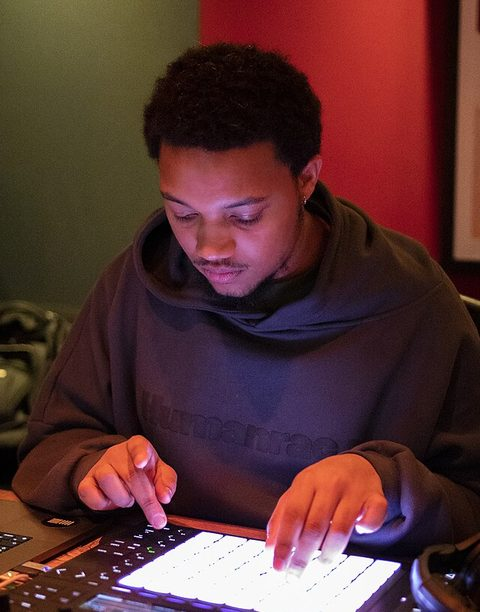
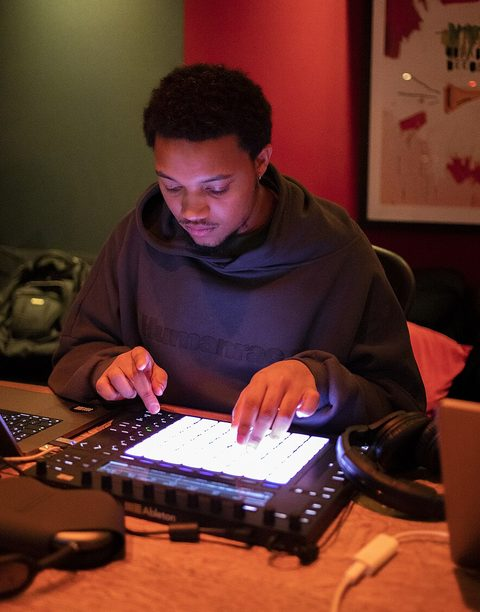
Welcome: show producer's equipment, single card label, updated copy
Producer photo zoomed out so the pad controller is visible; role and genre
merged into one slim label at the card's bottom edge. Headline, subhead and
benefits reworded (instrumentalists added; share ideas; match and create).

Claude-Session: https://claude.ai/code/session_01APVFkiYPihNdbAbeqv39XA

diff --git a/src/app/(auth)/welcome.tsx b/src/app/(auth)/welcome.tsx
@@ -12,9 +12,9 @@ const SINGER_PHOTO = require('../../../assets/welcome/singer.jpg');
 
 // The three reasons to sign up. Keep each to one short line so the page stays scannable.
 const BENEFITS = [
-  { icon: '🎯', title: 'Find the right people', body: 'Producers, vocalists, videographers and more, near you or worldwide' },
-  { icon: '🎧', title: 'Lead with your work', body: 'Your profile shows your tracks, clips and style, not just a bio' },
-  { icon: '💬', title: 'Match, then make something', body: "When you're both in, start a conversation and get to work" },
+  { icon: '🎯', title: 'Find the right people', body: 'Producers, vocalists, instrumentalists, videographers and more, near you or worldwide' },
+  { icon: '💡', title: 'Share your ideas', body: "Post snippets of your work and what you're looking for in a collab" },
+  { icon: '💬', title: 'Match and create', body: "Browse other creatives, match when it's mutual, then start working together" },
 ];
 
 export default function Welcome() {
@@ -35,9 +35,9 @@ export default function Welcome() {
             <ProfileCard photo={SINGER_PHOTO} icon="🎤" role="Singer" genre="R&B" tilt="6deg" accent={colors.purple} />
           </View>
 
-          <Text style={styles.headline}>Find your next creative collab</Text>
+          <Text style={styles.headline}>Find your next creative collab partner</Text>
           <Text style={styles.subhead}>
-            Collab connects musicians and content creators who want to make something together.
+            Collab helps you find collaboration partners for a variety of creatives.
           </Text>
 
           <View style={styles.benefits}>
@@ -68,12 +68,14 @@ function ProfileCard(props: { photo: number; icon: string; role: string; genre: 
   return (
     <View style={[styles.card, { backgroundColor: props.accent, transform: [{ rotate: props.tilt }] }]}>
       <Image source={props.photo} style={StyleSheet.absoluteFill} contentFit="cover" />
+      {/* One slim label at the bottom edge so it doesn't hide what the person is doing. */}
       <View style={styles.badge}>
         <Text style={styles.badgeIcon}>{props.icon}</Text>
-        <Text style={styles.badgeText}>{props.role}</Text>
-      </View>
-      <View style={[styles.tag, { backgroundColor: props.accent }]}>
-        <Text style={styles.tagText}>{props.genre}</Text>
+        <Text style={styles.badgeText} maxFontSizeMultiplier={1.1}>{props.role}</Text>
+        <View style={[styles.dot, { backgroundColor: props.accent }]} />
+        <Text style={[styles.genreText, { color: props.accent }]} maxFontSizeMultiplier={1.1}>
+          {props.genre}
+        </Text>
       </View>
     </View>
   );
@@ -115,29 +117,20 @@ const styles = StyleSheet.create({
   connectorIcon: { fontSize: 19 },
   badge: {
     position: 'absolute',
-    bottom: 34,
+    bottom: 6,
     alignSelf: 'center',
     flexDirection: 'row',
     alignItems: 'center',
     gap: 4,
     backgroundColor: 'rgba(255,255,255,0.95)',
-    paddingHorizontal: 10,
+    paddingHorizontal: 8,
     paddingVertical: 4,
     borderRadius: radius.full,
   },
   badgeIcon: { fontSize: 12 },
   badgeText: { fontFamily: fonts.bodySemibold, fontSize: 12, color: colors.text },
-  tag: {
-    position: 'absolute',
-    bottom: 8,
-    alignSelf: 'center',
-    paddingHorizontal: 10,
-    paddingVertical: 3,
-    borderRadius: radius.full,
-    borderWidth: 1.5,
-    borderColor: 'rgba(255,255,255,0.9)',
-  },
-  tagText: { fontFamily: fonts.bodyMedium, fontSize: 11, color: colors.white },
+  dot: { width: 4, height: 4, borderRadius: 2, marginHorizontal: 1 },
+  genreText: { fontFamily: fonts.bodySemibold, fontSize: 11 },
 
   headline: {
     fontFamily: fonts.heading,
